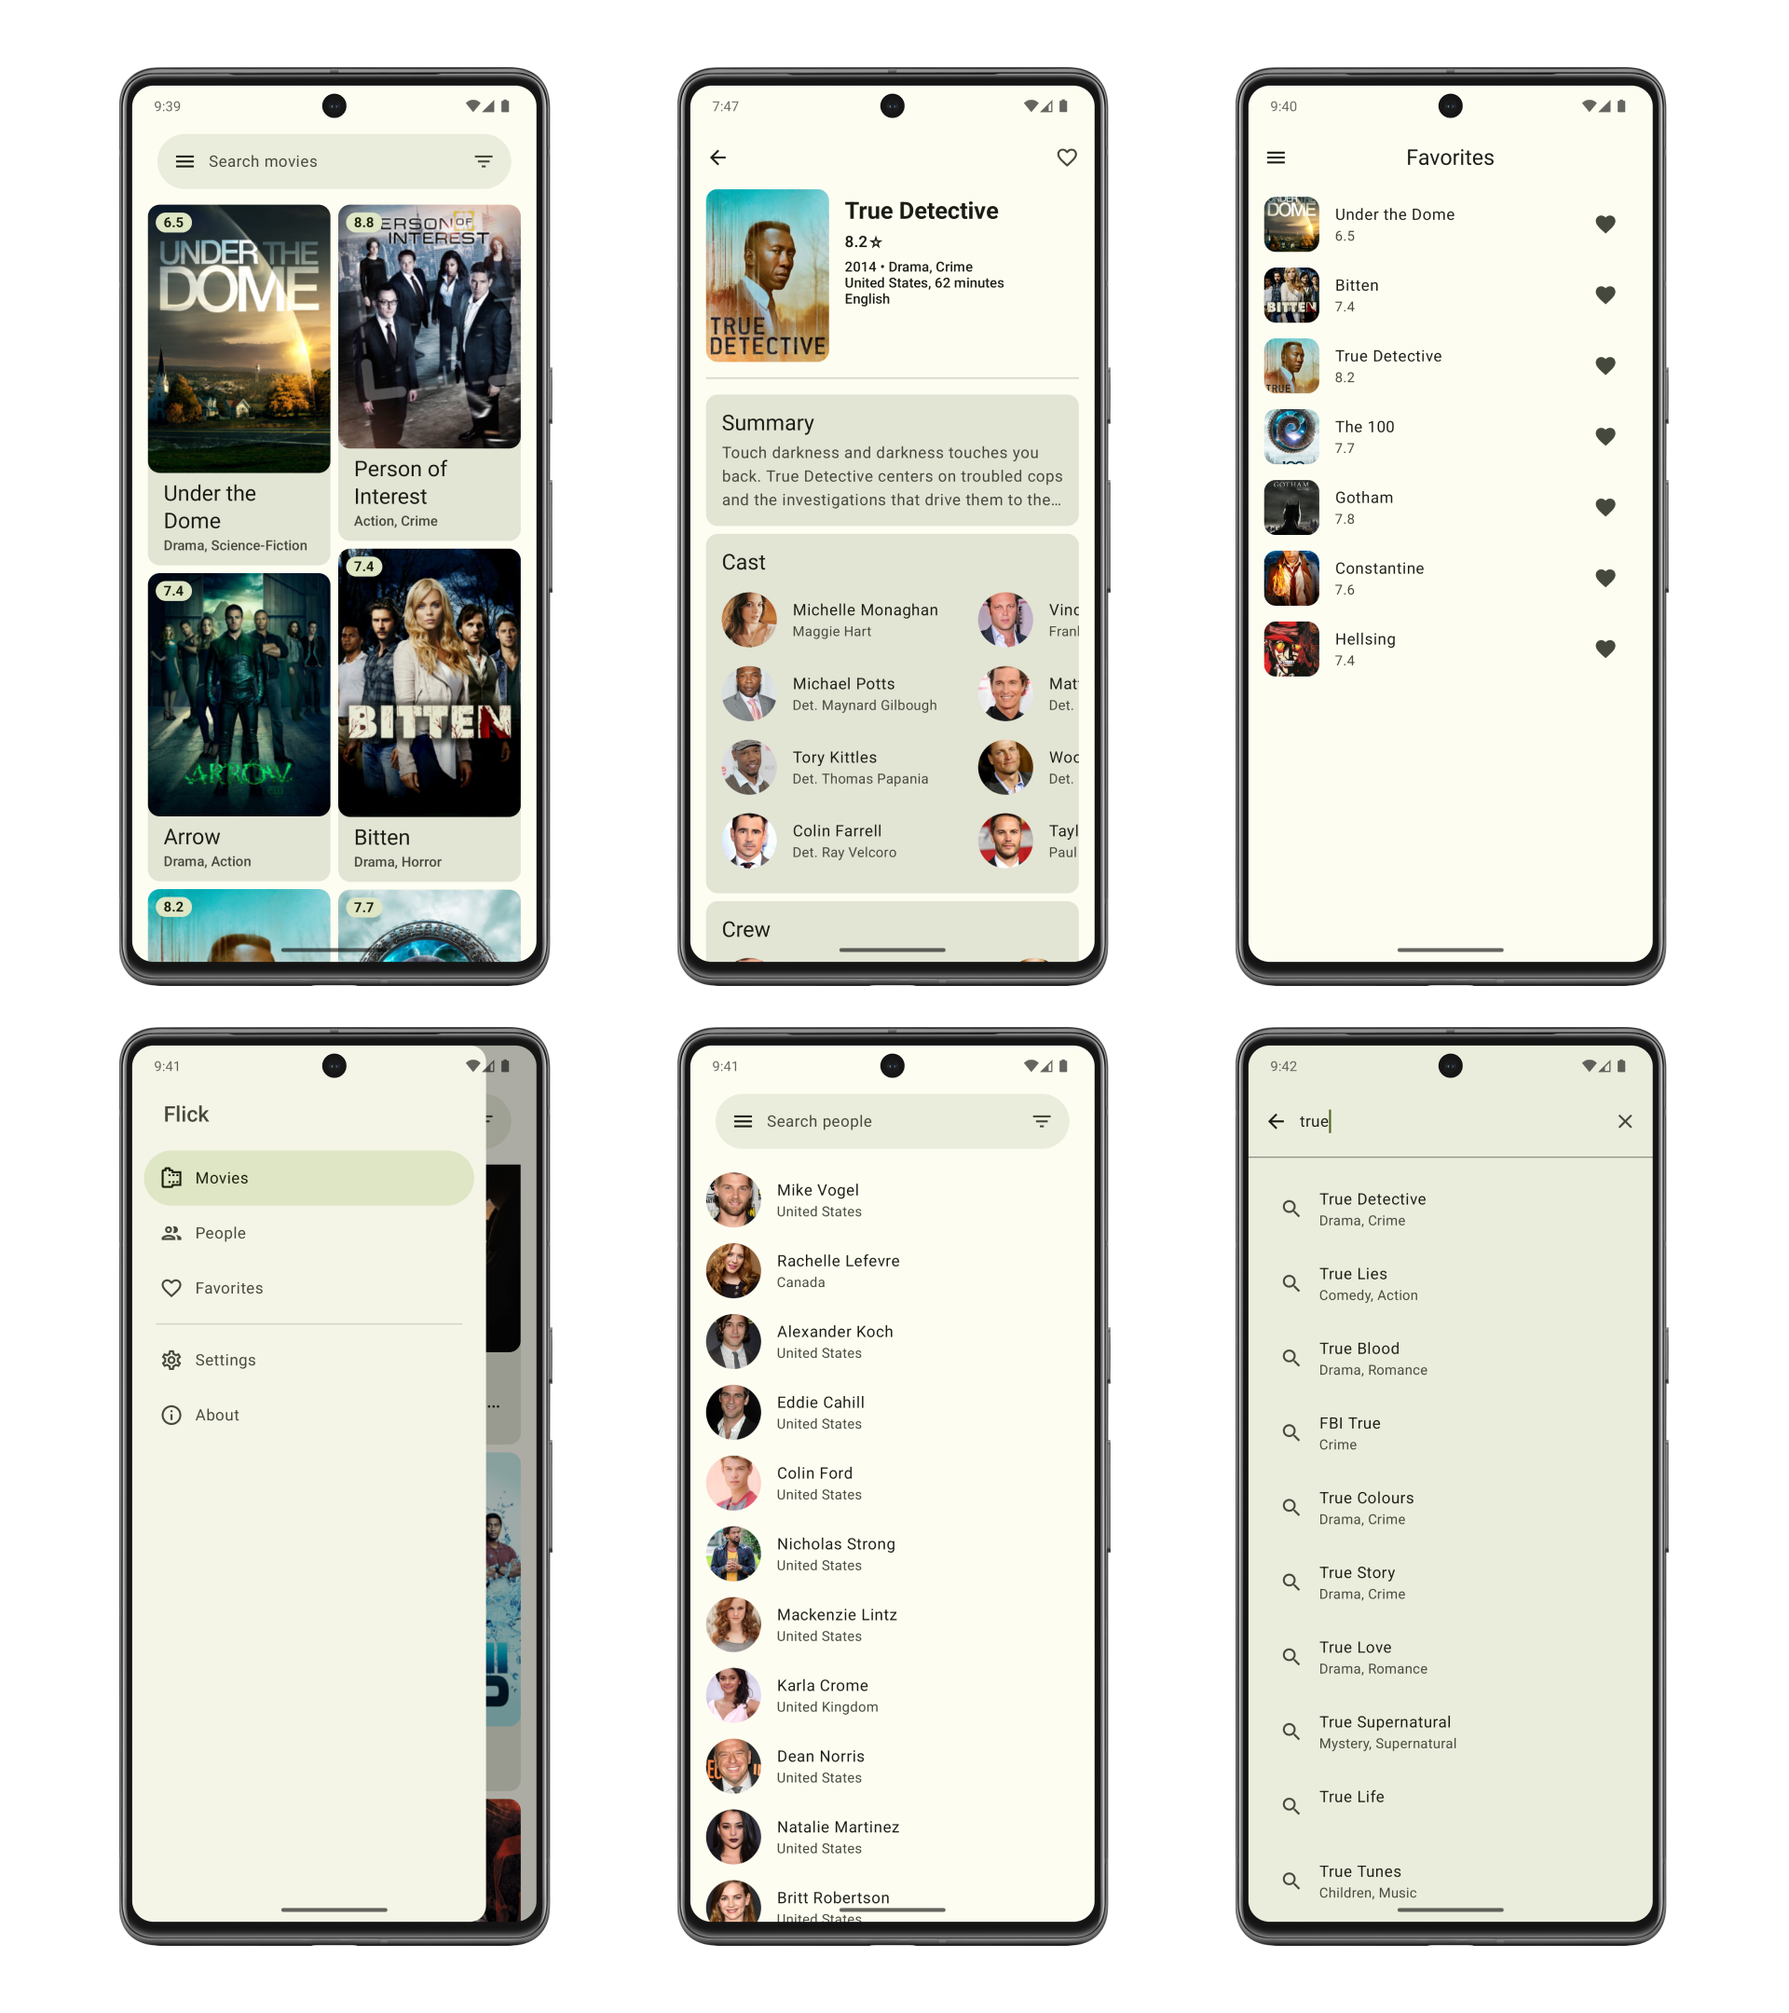
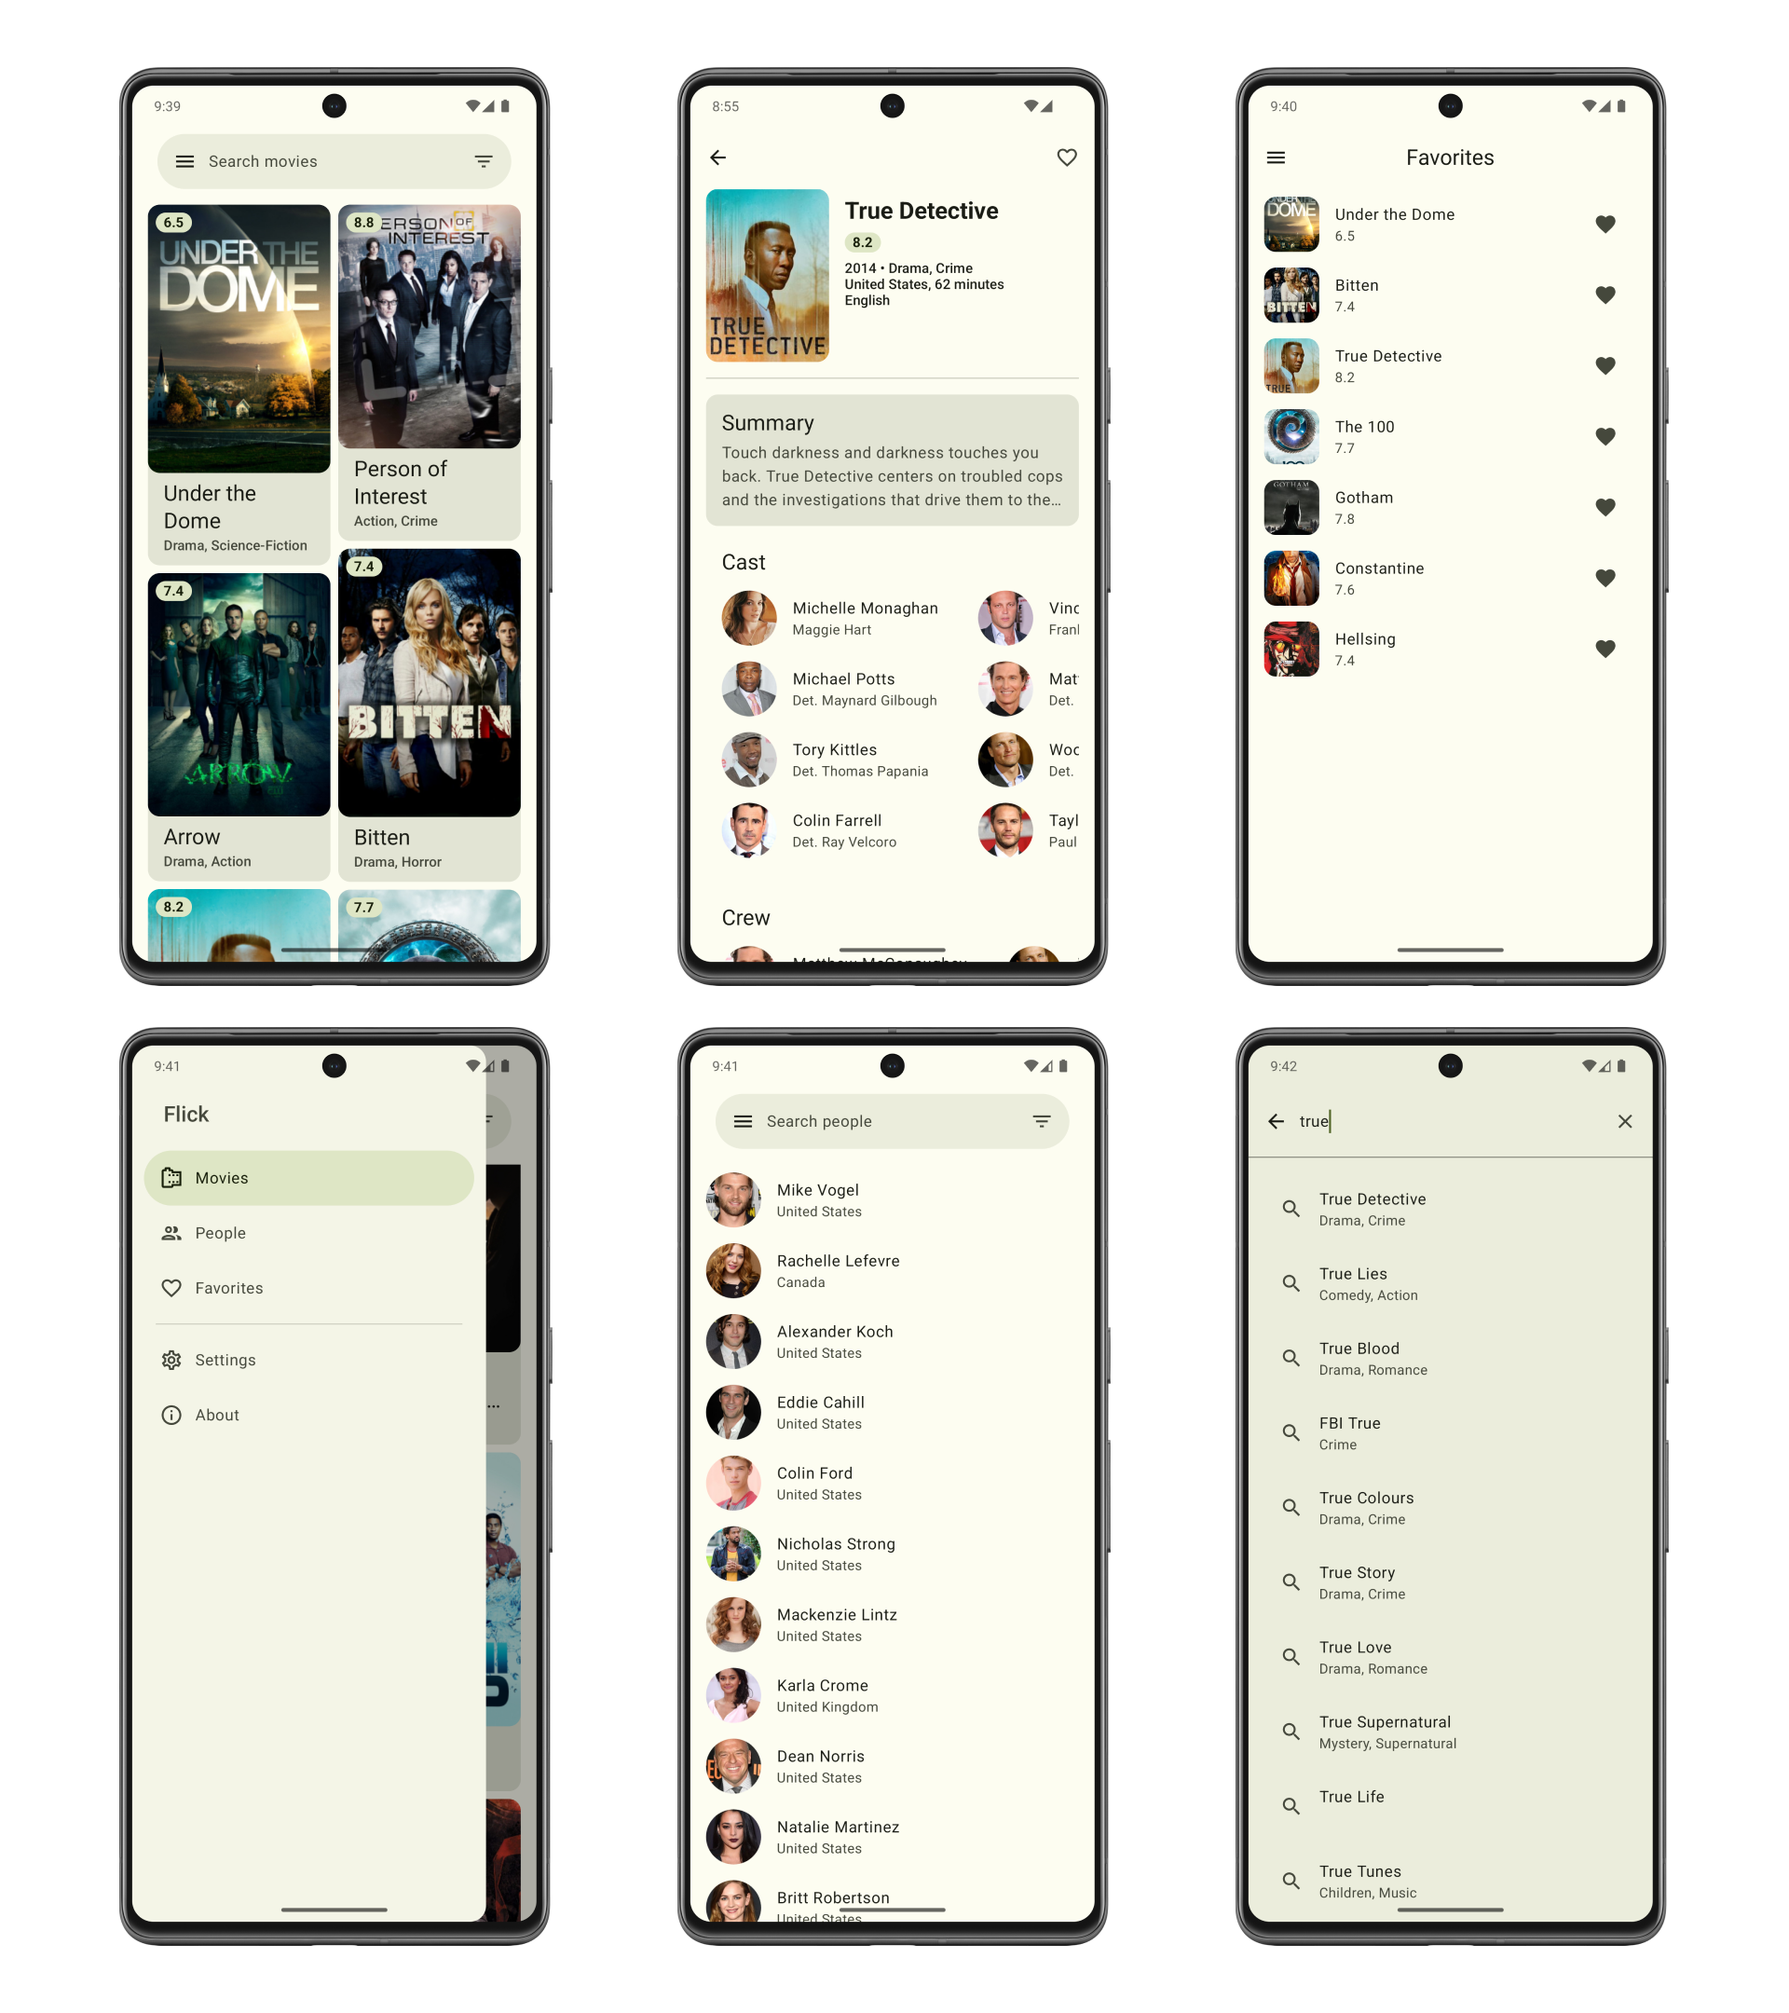
Improve UI

Changed region(s): [[0.375, 0.2481, 0.625, 0.4963], [0.4688, 0.0931, 0.5625, 0.1551]]

diff --git a/app/src/main/java/ru/resodostudios/flick/feature/movie/presentation/MovieScreen.kt b/app/src/main/java/ru/resodostudios/flick/feature/movie/presentation/MovieScreen.kt
@@ -2,6 +2,7 @@ package ru.resodostudios.flick.feature.movie.presentation
 
 import androidx.compose.animation.AnimatedVisibility
 import androidx.compose.animation.fadeIn
+import androidx.compose.foundation.isSystemInDarkTheme
 import androidx.compose.foundation.layout.Arrangement
 import androidx.compose.foundation.layout.Box
 import androidx.compose.foundation.layout.Column
@@ -9,7 +10,6 @@ import androidx.compose.foundation.layout.Row
 import androidx.compose.foundation.layout.Spacer
 import androidx.compose.foundation.layout.WindowInsets
 import androidx.compose.foundation.layout.fillMaxSize
-import androidx.compose.foundation.layout.fillMaxWidth
 import androidx.compose.foundation.layout.height
 import androidx.compose.foundation.layout.navigationBarsPadding
 import androidx.compose.foundation.layout.padding
@@ -58,6 +58,7 @@ import androidx.navigation.NavController
 import coil.compose.AsyncImage
 import coil.request.ImageRequest
 import coil.transform.CircleCropTransformation
+import ru.resodostudios.flick.R
 import ru.resodostudios.flick.core.presentation.components.CoilImage
 import ru.resodostudios.flick.core.presentation.components.RetrySection
 import ru.resodostudios.flick.core.presentation.theme.Typography
@@ -110,7 +111,9 @@ fun MovieScreen(
                         item {
                             Body(
                                 state = state,
-                                onSummaryClick = { maxLines = Int.MAX_VALUE },
+                                onSummaryClick = {
+                                    maxLines = if (maxLines == 3) Int.MAX_VALUE else 3
+                                },
                                 maxLines = maxLines
                             )
                         }
@@ -211,9 +214,7 @@ private fun Body(state: MovieUiState, onSummaryClick: () -> Unit, maxLines: Int)
     Column(
         verticalArrangement = Arrangement.spacedBy(8.dp)
     ) {
-        Card(
-            onClick = onSummaryClick
-        ) {
+        Card(onClick = onSummaryClick) {
             Column(
                 verticalArrangement = Arrangement.spacedBy(8.dp),
                 modifier = Modifier.padding(16.dp)
@@ -236,83 +237,97 @@ private fun Body(state: MovieUiState, onSummaryClick: () -> Unit, maxLines: Int)
             }
         }
 
-        Card(modifier = Modifier.fillMaxWidth()) {
-            Column(
-                verticalArrangement = Arrangement.spacedBy(8.dp),
-                modifier = Modifier.padding(bottom = 16.dp)
-            ) {
-                Text(
-                    text = "Cast",
-                    style = Typography.titleLarge,
-                    color = MaterialTheme.colorScheme.onSurface,
-                    modifier = Modifier.padding(start = 16.dp, top = 16.dp)
-                )
+        var castRows by remember { mutableIntStateOf(4) }
 
-                LazyHorizontalGrid(
-                    rows = GridCells.Fixed(4),
-                    modifier = Modifier.height(300.dp)
-                ) {
-                    items(state.cast) { cast ->
-                        ListItem(
-                            headlineContent = { Text(text = cast.person?.name.toString()) },
-                            leadingContent = {
-                                Box {
-                                    AsyncImage(
-                                        model = ImageRequest.Builder(LocalContext.current)
-                                            .data(cast.person?.image?.medium)
-                                            .crossfade(400)
-                                            .size(256)
-                                            .transformations(CircleCropTransformation())
-                                            .build(),
-                                        contentDescription = "Image",
-                                        modifier = Modifier.size(56.dp),
-                                        filterQuality = FilterQuality.Low
-                                    )
-                                }
-                            },
-                            colors = ListItemDefaults.colors(containerColor = Color.Transparent),
-                            supportingContent = { Text(text = cast.character?.name.toString()) }
-                        )
-                    }
+        when (state.cast.size) {
+            3 -> castRows = 3
+            2 -> castRows = 2
+            1 -> castRows = 1
+        }
+
+        Column(
+            verticalArrangement = Arrangement.spacedBy(8.dp),
+            modifier = Modifier
+                .padding(bottom = 16.dp)
+        ) {
+            Text(
+                text = "Cast",
+                style = Typography.titleLarge,
+                color = MaterialTheme.colorScheme.onSurface,
+                modifier = Modifier.padding(start = 16.dp, top = 16.dp)
+            )
+
+            LazyHorizontalGrid(
+                rows = GridCells.Fixed(castRows),
+                modifier = Modifier
+                    .then(
+                        when (state.cast.size) {
+                            3 -> Modifier.height(216.dp)
+                            2 -> Modifier.height(144.dp)
+                            1 -> Modifier.height(72.dp)
+                            else -> Modifier.height(288.dp)
+                        }
+                    )
+            ) {
+                items(state.cast) { cast ->
+                    ListItem(
+                        headlineContent = { Text(text = cast.person?.name.toString()) },
+                        leadingContent = {
+                            Box {
+                                AsyncImage(
+                                    model = ImageRequest.Builder(LocalContext.current)
+                                        .data(cast.person?.image?.medium)
+                                        .crossfade(400)
+                                        .size(256)
+                                        .error(if (isSystemInDarkTheme()) R.drawable.ic_outlined_face_white else R.drawable.ic_outlined_face)
+                                        .transformations(CircleCropTransformation())
+                                        .build(),
+                                    contentDescription = "Image",
+                                    modifier = Modifier.size(56.dp),
+                                    filterQuality = FilterQuality.Low
+                                )
+                            }
+                        },
+                        supportingContent = { Text(text = cast.character?.name.toString()) }
+                    )
                 }
             }
         }
 
-        Card(modifier = Modifier.fillMaxWidth()) {
-            Column(
-                verticalArrangement = Arrangement.spacedBy(8.dp),
-                modifier = Modifier.padding(bottom = 16.dp)
-            ) {
-                Text(
-                    text = "Crew",
-                    style = Typography.titleLarge,
-                    color = MaterialTheme.colorScheme.onSurface,
-                    modifier = Modifier.padding(start = 16.dp, top = 16.dp)
-                )
+        Column(
+            verticalArrangement = Arrangement.spacedBy(8.dp),
+            modifier = Modifier.padding(bottom = 16.dp)
+        ) {
+            Text(
+                text = "Crew",
+                style = Typography.titleLarge,
+                color = MaterialTheme.colorScheme.onSurface,
+                modifier = Modifier.padding(start = 16.dp, top = 16.dp)
+            )
 
-                LazyRow {
-                    items(state.crew) { crew ->
-                        ListItem(
-                            headlineContent = { Text(text = crew.person?.name.toString()) },
-                            leadingContent = {
-                                Box {
-                                    AsyncImage(
-                                        model = ImageRequest.Builder(LocalContext.current)
-                                            .data(crew.person?.image?.medium)
-                                            .crossfade(400)
-                                            .size(256)
-                                            .transformations(CircleCropTransformation())
-                                            .build(),
-                                        contentDescription = "Image",
-                                        modifier = Modifier.size(56.dp),
-                                        filterQuality = FilterQuality.Low
-                                    )
-                                }
-                            },
-                            colors = ListItemDefaults.colors(containerColor = Color.Transparent),
-                            supportingContent = { Text(text = crew.type.toString()) }
-                        )
-                    }
+            LazyRow {
+                items(state.crew) { crew ->
+                    ListItem(
+                        headlineContent = { Text(text = crew.person?.name.toString()) },
+                        leadingContent = {
+                            Box {
+                                AsyncImage(
+                                    model = ImageRequest.Builder(LocalContext.current)
+                                        .data(crew.person?.image?.medium)
+                                        .crossfade(400)
+                                        .size(256)
+                                        .error(if (isSystemInDarkTheme()) R.drawable.ic_outlined_face_white else R.drawable.ic_outlined_face)
+                                        .transformations(CircleCropTransformation())
+                                        .build(),
+                                    contentDescription = "Image",
+                                    modifier = Modifier.size(56.dp),
+                                    filterQuality = FilterQuality.Low
+                                )
+                            }
+                        },
+                        colors = ListItemDefaults.colors(containerColor = Color.Transparent),
+                        supportingContent = { Text(text = crew.type.toString()) }
+                    )
                 }
             }
         }

diff --git a/app/src/main/java/ru/resodostudios/flick/feature/people/presentation/PeopleScreen.kt b/app/src/main/java/ru/resodostudios/flick/feature/people/presentation/PeopleScreen.kt
@@ -3,6 +3,7 @@ package ru.resodostudios.flick.feature.people.presentation
 import androidx.compose.animation.AnimatedVisibility
 import androidx.compose.animation.fadeIn
 import androidx.compose.foundation.clickable
+import androidx.compose.foundation.isSystemInDarkTheme
 import androidx.compose.foundation.layout.Box
 import androidx.compose.foundation.layout.fillMaxSize
 import androidx.compose.foundation.layout.fillMaxWidth
@@ -32,6 +33,7 @@ import coil.compose.AsyncImage
 import coil.request.ImageRequest
 import coil.transform.CircleCropTransformation
 import kotlinx.coroutines.launch
+import ru.resodostudios.flick.R
 import ru.resodostudios.flick.core.presentation.components.RetrySection
 import ru.resodostudios.flick.feature.people.domain.util.PeopleEvent
 import ru.resodostudios.flick.feature.search.presentation.components.SearchBar
@@ -98,6 +100,7 @@ fun PeopleScreen(
                                         .data(it.image?.medium)
                                         .crossfade(400)
                                         .size(256)
+                                        .error(if (isSystemInDarkTheme()) R.drawable.ic_outlined_face_white else R.drawable.ic_outlined_face)
                                         .transformations(CircleCropTransformation())
                                         .build(),
                                     contentDescription = "Image",

diff --git a/app/src/main/java/ru/resodostudios/flick/core/presentation/components/FilterBottomSheet.kt b/app/src/main/java/ru/resodostudios/flick/core/presentation/components/FilterBottomSheet.kt
@@ -132,8 +132,9 @@ fun FilterBottomSheet(
                 ) {
                     Text("Apply")
                 }
+
+                Spacer(modifier = Modifier.navigationBarsPadding())
             }
-            Spacer(modifier = Modifier.navigationBarsPadding())
         }
     }
 }

diff --git a/app/src/main/java/ru/resodostudios/flick/core/presentation/navigation/NavHost.kt b/app/src/main/java/ru/resodostudios/flick/core/presentation/navigation/NavHost.kt
@@ -108,5 +108,9 @@ fun NavHost(
         composable(route = Screens.Settings.route) {
 
         }
+
+        composable(route = Screens.About.route) {
+
+        }
     }
 }
